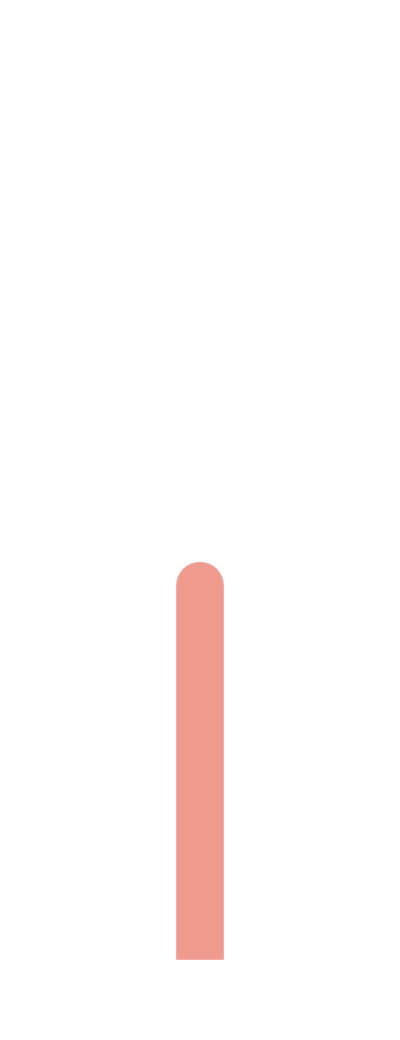
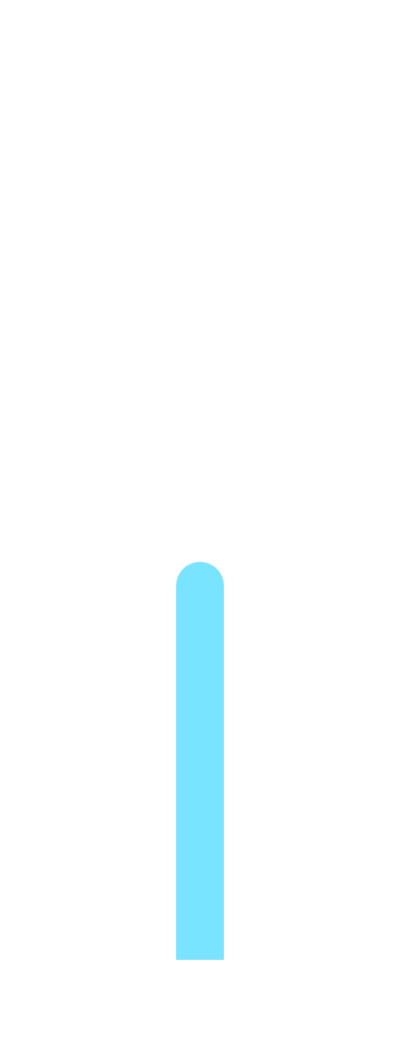
feat: adicionando as imagens de mente superior e trocando as cores do gráfico

Changed region(s): [[0.42, 0.5231, 0.57, 0.9231]]

diff --git a/gerador_mente_superior/gerando_grafico_base.py b/gerador_mente_superior/gerando_grafico_base.py
@@ -10,7 +10,8 @@ file_path = os.path.join(current_dir, 'trezentosteste999.xlsx')
 # Ler o arquivo Excel
 df = pd.read_excel(file_path)
 resol = 1
-linha_grade = 1.1
+linha_grade = 1.3
+linha_grade1 = 1.1
 media_turma = media_y_data = df.iloc[:, 1].mean()
 dias_totais = 100
 dia_atual = 99
@@ -40,17 +41,17 @@ for y in y_data:
     elif 2 <= y < 4:
       cores.append('#ef5eeb')
     elif 4 <= y < 6:
-      cores.append('#ef9c8e')
+      cores.append('#78e4ff')
     elif 6 <= y < 8:
-      cores.append('#0ea84c')
+      cores.append('#cf8691')
     elif 8 <= y < 10:
-      cores.append('#f4ea6e')
+      cores.append('#0b9ad4')
     elif 10 <= y < 12:
-      cores.append('#a57449')
+      cores.append('#be88d6')
     elif 12 <= y < 14:
-      cores.append('#56d19f')
+      cores.append('#24329b')
     else:
-      cores.append('#62b3ef')  # Cor padrão para outros valores
+      cores.append('#dc525f')  # Cor padrão para outros valores
 fonte_ttf_externa = os.path.join(current_dir, 'Poppins-Regular.ttf')
 # Criar o gráfico de barras
 fig = go.Figure(data=go.Bar(x=x_data, y=y_data, marker=dict(color=cores, cornerradius=30),width=0.65))
@@ -102,18 +103,35 @@ path_medalha = os.path.join(current_directory, 'demais_assets', 'medalha.png')
 path_imagem_logounb = os.path.join(current_directory, 'demais_assets', 'logo_unb.png')
 path_imagem_logotrezentos = os.path.join(current_directory, 'demais_assets', 'trezentos.png')
 
+imagens = [
+    (path_imagem_4hour, -0.10*linha_grade, 0.225),
+    (path_imagem_6hour, -0.10*linha_grade, 0.35),
+    (path_imagem_8hour, -0.10*linha_grade, 0.48),
+    (path_imagem_10hour, -0.10*linha_grade, 0.62),
+    (path_imagem_12hour, -0.10*linha_grade, 0.75),
+    (path_imagem_14hour, -0.10*linha_grade, 0.9),
+]
+
+for imagem_url, x, y in imagens:
+    fig.add_layout_image(
+        dict(
+            source=imagem_url,
+            x=x,  # Posição x no canto inferior esquerdo do layout
+            y=y,  # Posição y no canto inferior esquerdo do layout
+            xref="paper",
+            yref="paper",
+            sizex=0.09,  # Ajuste conforme necessário
+            sizey=0.09,  # Ajuste conforme necessário
+            xanchor="left",  # Ancoragem à esquerda
+            yanchor="bottom"  # Ancoragem na parte inferior
+        )
+    )
 
 a=0.045
 imagens = [
-    (path_imagem_0hour, -0.12*linha_grade, -0.05),
-    (path_imagem_2hour, -0.11*linha_grade, 0.08),
-    (path_imagem_4hour, -0.11*linha_grade, 0.21),
-    (path_imagem_6hour, -0.115*linha_grade, 0.35),
-    (path_imagem_8hour, -0.1115*linha_grade, 0.48),
-    (path_imagem_10hour, -0.115*linha_grade, 0.62),
-    (path_imagem_12hour, -0.1115*linha_grade, 0.75),
-    (path_imagem_14hour, -0.105*linha_grade, 0.9),
-    (path_medalha, -0.085*linha_grade, 1.025),
+    (path_imagem_0hour, -0.12*linha_grade1, -0.05),
+    (path_imagem_2hour, -0.11*linha_grade1, 0.08),
+    (path_medalha, -0.085*linha_grade1, 1.025),
     (path_imagem_logotrezentos, -0.25, 1.225+a),
     (path_imagem_logounb, 0.999, 1.22+a),
 ]

diff --git a/gerador_mente_superior/imagem_final_gerador.py b/gerador_mente_superior/imagem_final_gerador.py
@@ -117,4 +117,4 @@ base.paste(dias_invertido, (223, 267-altura),dias_invertido)
 base.paste(linha_tracejada, (410,359), linha_tracejada)
 # Salva a imagem resultante
 base.save(os.path.join(current_directory, 'images', 'imagem_final.png'))
-#base.show()
+base.show()
